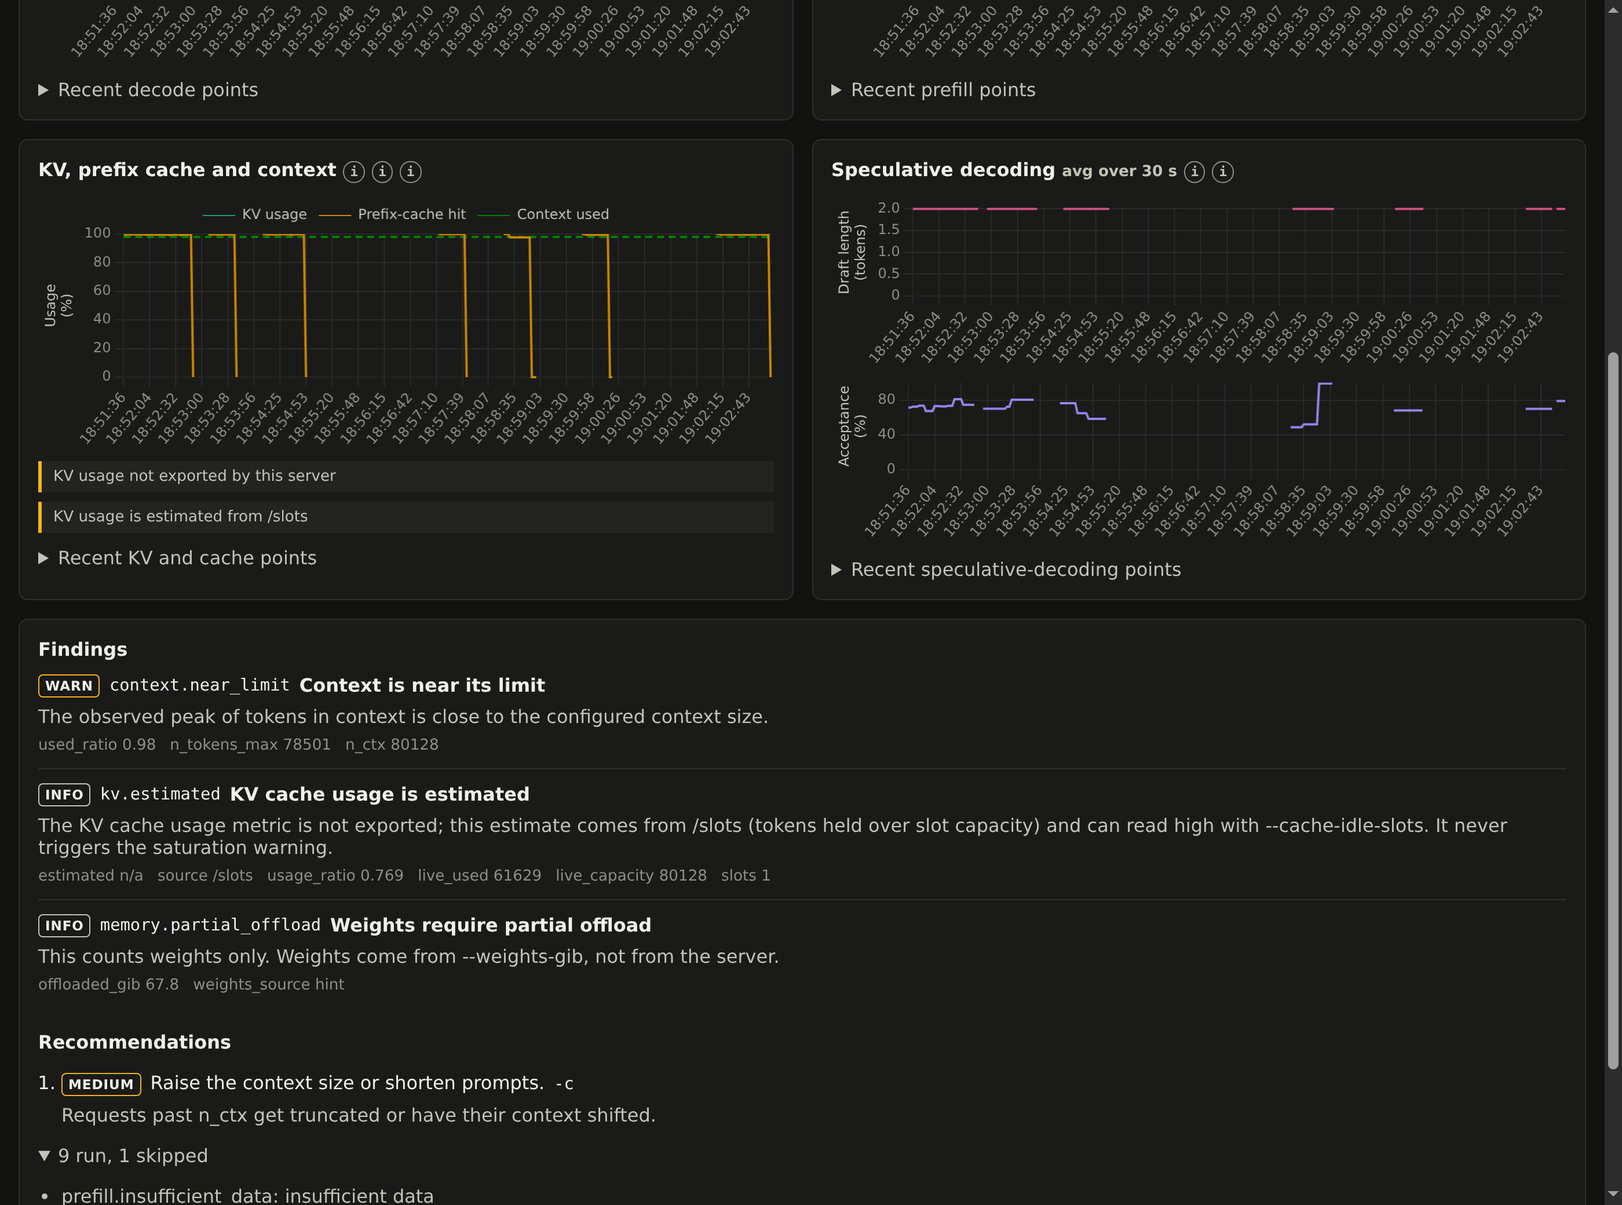
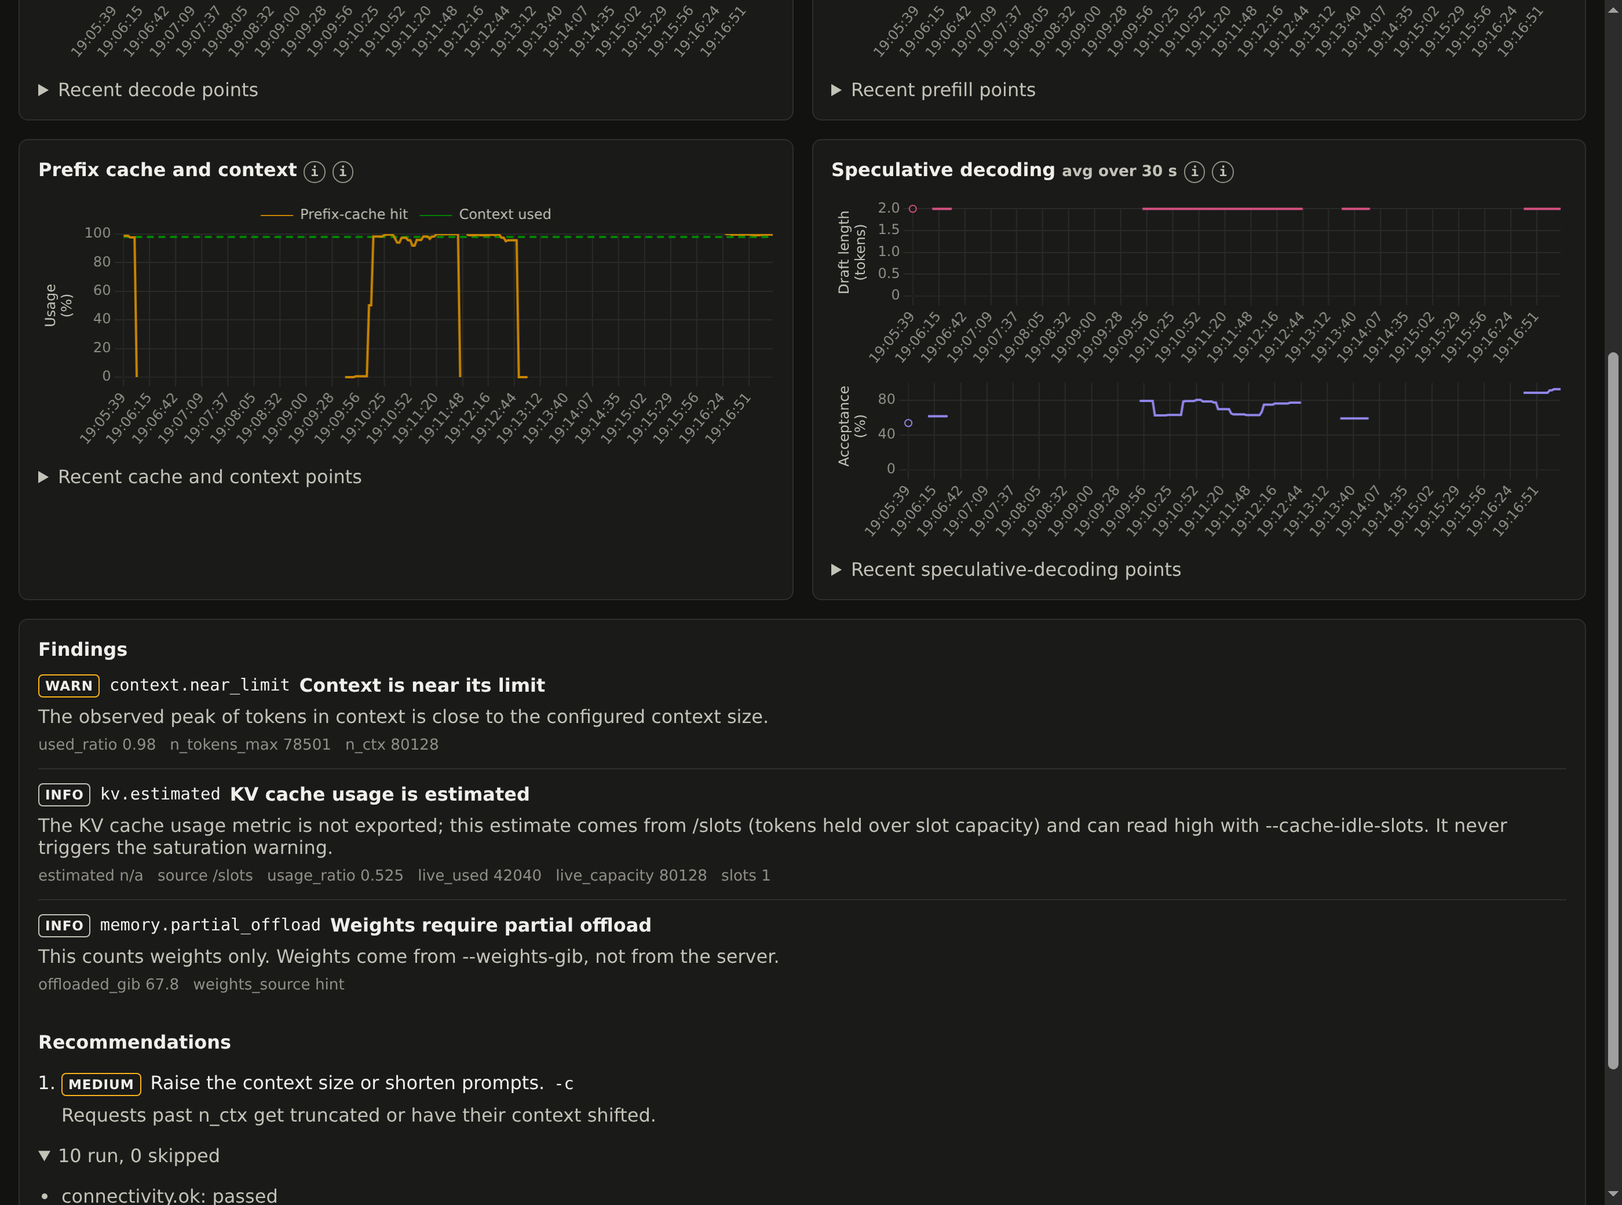
Drop KV usage tile: gauge only existed in legacy llama.cpp builds; keep backend analyzer

diff --git a/src/llama_doctor/dashboard/static/app.js b/src/llama_doctor/dashboard/static/app.js
@@ -6,7 +6,7 @@
   const byId = (id) => document.getElementById(id);
   const colors = {
     grid: color("--grid"), tick: color("--text-3"), legend: color("--text-2"), decode: color("--s-decode"),
-    prefill: color("--s-prefill"), kv: color("--s-kv"), cache: color("--s-cache"),
+    prefill: color("--s-prefill"), cache: color("--s-cache"),
     draft: color("--s-draft"), acceptance: color("--s-accept"), context: color("--s-ctx")
   };
   let lastState = null;
@@ -128,9 +128,8 @@
     decode: lineChart("chart-decode", "Decode (tokens/s)", [{ label: "Decode", data: [], borderColor: colors.decode, unit: "tok/s" }], false),
     prefill: lineChart("chart-prefill", "Prefill (tokens/s)", [{ label: "Prefill", data: [], borderColor: colors.prefill, unit: "tok/s" }], false),
     kvCache: lineChart("chart-kv-cache", "Usage (%)", [
-      { label: "KV usage", data: [], borderColor: colors.kv, backgroundColor: colors.kv, unit: "%" },
       { label: "Prefix-cache hit", data: [], borderColor: colors.cache, backgroundColor: colors.cache, unit: "%" },
-      // Dashed: a peak since server start, not a live gauge like the other two lines.
+      // Dashed: a peak since server start, not a live gauge like the other line.
       { label: "Context used", data: [], borderColor: colors.context, backgroundColor: colors.context, borderDash: [6, 4], unit: "%" }
     ], true),
     draft: lineChart("chart-draft-len", "Draft length (tokens)", [{ label: "Draft length", data: [], borderColor: colors.draft, unit: "tokens" }], false),
@@ -157,7 +156,7 @@
   function updateCharts(history) {
     updateChart(charts.decode, history, ["decode_tps"]);
     updateChart(charts.prefill, history, ["prefill_tps"]);
-    updateChart(charts.kvCache, history, ["kv_usage_ratio", "cache_hit_ratio", "context_used_ratio"]);
+    updateChart(charts.kvCache, history, ["cache_hit_ratio", "context_used_ratio"]);
     updateChart(charts.draft, history, ["avg_draft_len"]);
     updateChart(charts.acceptance, history, ["draft_acceptance"]);
   }
@@ -182,7 +181,6 @@
     "tile-decode": "Decode tok/s",
     "tile-prefill": "Prefill tok/s",
     "tile-cache": "Prefix-cache hit",
-    "tile-kv": "KV usage",
     "tile-context": "Context",
     "tile-queue": "Queue"
   };
@@ -204,20 +202,6 @@
     const hero = live === null ? lifetime : live;
     append(body, "div", formatter(hero), "hero");
     append(body, "div", live === null ? "lifetime avg" : `lifetime ${formatter(lifetime)}`, "secondary");
-  }
-
-  // KV usage is an instantaneous gauge with no lifetime average, so it gets no lifetime line.
-  function renderKvTile(history, unexported, kv) {
-    const body = tileValue("tile-kv");
-    if (unexported) {
-      append(body, "div", "not exported", "hero");
-      if (kv && kv.estimated === true && number(kv.usage_ratio) !== null) {
-        append(body, "div", `~${percent(number(kv.usage_ratio))} estimated - see Context`, "secondary");
-      }
-      return;
-    }
-    append(body, "div", percent(latest(history, "kv_usage_ratio")), "hero");
-    append(body, "div", "current", "secondary");
   }
 
   function renderQueueTile(history) {
@@ -247,7 +231,6 @@
     renderTile("tile-decode", latest(history, "decode_tps"), number(lifetime.decode_tps), rate);
     renderTile("tile-prefill", latest(history, "prefill_tps"), number(lifetime.prefill_tps), rate);
     renderTile("tile-cache", latest(history, "cache_hit_ratio"), number(lifetime.cache_hit_ratio), percent);
-    renderKvTile(history, notes.kv_unexported === true, state.kv && typeof state.kv === "object" ? state.kv : null);
     renderContextTile(state);
     renderQueueTile(history);
   }
@@ -258,12 +241,11 @@
     "tile-decode": ["decode_tps"],
     "tile-prefill": ["prefill_tps"],
     "tile-cache": ["prefix_cache_hit"],
-    "tile-kv": ["kv_usage"],
     "tile-context": ["context_used"],
     "tile-queue": ["queue_processing", "queue_deferred"],
     "chart-decode": ["decode_tps"],
     "chart-prefill": ["prefill_tps"],
-    "chart-kv-cache": ["kv_usage", "prefix_cache_hit", "context_used"],
+    "chart-kv-cache": ["prefix_cache_hit", "context_used"],
     "chart-draft-len": ["draft_length"],
     "chart-acceptance": ["acceptance"],
     "hdr-quant": ["quant"],
@@ -376,22 +358,12 @@
   const NOTE_IDS = {
     decode_idle: "note-decode",
     prefill_idle: "note-prefill",
-    kv_unexported: "note-kv",
     cache_hit_unexported: "note-cache-hit",
     slots_unavailable: "note-slots",
   };
 
-  const SLOTS_NOTE_FALLBACK = "Live slot data unavailable; context use is estimated from metrics";
-  const SLOTS_NOTE_ESTIMATED = "KV usage is estimated from /slots";
-
-  // With live slots the estimate comes from /slots; without them the old wording applies.
-  function updateSlotsNote(state, notes) {
-    const note = byId("note-slots");
-    const kv = state.kv && typeof state.kv === "object" ? state.kv : null;
-    const fromSlots = notes.slots_unavailable !== true && notes.kv_unexported === true
-      && kv !== null && kv.estimated === true;
-    note.textContent = fromSlots ? SLOTS_NOTE_ESTIMATED : SLOTS_NOTE_FALLBACK;
-    note.classList.toggle("hidden", !(fromSlots || notes.slots_unavailable === true));
+  function updateSlotsNote(notes) {
+    byId("note-slots").classList.toggle("hidden", notes.slots_unavailable !== true);
   }
 
   function updateNotes(state) {
@@ -399,7 +371,7 @@
     Object.entries(NOTE_IDS).forEach(([flag, id]) => {
       byId(id).classList.toggle("hidden", notes[flag] !== true);
     });
-    updateSlotsNote(state, notes);
+    updateSlotsNote(notes);
   }
 
   function updateRateWindow(state) {
@@ -459,7 +431,6 @@
     decode: [{ label: "tok/s", key: "decode_tps", format: rate }],
     prefill: [{ label: "tok/s", key: "prefill_tps", format: rate }],
     "kv-cache": [
-      { label: "KV usage", key: "kv_usage_ratio", format: percent },
       { label: "Prefix-cache hit", key: "cache_hit_ratio", format: percent },
       { label: "Context used", key: "context_used_ratio", format: percent }
     ],

diff --git a/src/llama_doctor/dashboard/static/index.html b/src/llama_doctor/dashboard/static/index.html
@@ -28,7 +28,6 @@
       <article id="tile-decode" class="tile"></article>
       <article id="tile-prefill" class="tile"></article>
       <article id="tile-cache" class="tile"></article>
-      <article id="tile-kv" class="tile"></article>
       <article id="tile-context" class="tile"></article>
       <article id="tile-queue" class="tile"></article>
     </section>
@@ -46,12 +45,11 @@
         <details><summary>Recent prefill points</summary><div class="table-wrap" data-table="prefill"></div></details>
       </article>
       <article class="panel">
-        <h2>KV, prefix cache and context</h2>
-        <div class="chart-wrap"><canvas id="chart-kv-cache" aria-label="KV usage, prefix cache hit and peak context used percentages" role="img"></canvas></div>
-        <p id="note-kv" class="chart-note hidden" role="note">KV usage not exported by this server</p>
+        <h2>Prefix cache and context</h2>
+        <div class="chart-wrap"><canvas id="chart-kv-cache" aria-label="Prefix cache hit and peak context used percentages" role="img"></canvas></div>
         <p id="note-cache-hit" class="chart-note hidden" role="note">Prefix cache hits not exported by this server</p>
         <p id="note-slots" class="chart-note hidden" role="note">Live slot data unavailable; context use is estimated from metrics</p>
-        <details><summary>Recent KV and cache points</summary><div class="table-wrap" data-table="kv-cache"></div></details>
+        <details><summary>Recent cache and context points</summary><div class="table-wrap" data-table="kv-cache"></div></details>
       </article>
       <article class="panel speculative">
         <h2>Speculative decoding <span class="secondary rate-window"></span></h2>

diff --git a/src/llama_doctor/dashboard/static/app.css b/src/llama_doctor/dashboard/static/app.css
@@ -9,7 +9,6 @@
   --text-3: #8f8e86;
   --s-decode: #3987e5;
   --s-prefill: #d95926;
-  --s-kv: #199e70;
   --s-cache: #c98500;
   --s-draft: #d55181;
   --s-accept: #9085e9;
@@ -61,7 +60,7 @@ dd { margin: 2px 0 0; overflow-wrap: anywhere; }
 .connection { margin: 0 0 16px; padding: 12px 16px; color: var(--text-2); }
 .hidden { display: none; }
 
-.tiles { grid-template-columns: repeat(6, minmax(0, 1fr)); align-items: stretch; margin-bottom: 16px; }
+.tiles { grid-template-columns: repeat(5, minmax(0, 1fr)); align-items: stretch; margin-bottom: 16px; }
 .tile { padding: 16px; min-height: 102px; }
 .tile-label, .secondary { color: var(--text-2); }
 .tile-label { font-size: 0.85rem; }

diff --git a/tests/test_static.py b/tests/test_static.py
@@ -58,7 +58,6 @@ class TestStaticFiles(unittest.TestCase):
             "tile-decode",
             "tile-prefill",
             "tile-cache",
-            "tile-kv",
             "tile-context",
             "tile-queue",
             "chart-decode",
@@ -71,7 +70,6 @@ class TestStaticFiles(unittest.TestCase):
             "skipped-list",
             "note-decode",
             "note-prefill",
-            "note-kv",
             "note-cache-hit",
             "note-slots",
         )
@@ -116,50 +114,35 @@ class TestStaticFiles(unittest.TestCase):
         self.assertIn("Math.abs(value) >= 1 ? 1 : 3", self.app_js)
         self.assertIn("`${key} ${displayNumber(value)}`", self.app_js)
 
-    def test_kv_tile_says_not_exported_without_lifetime_line(self):
-        self.assertIn('"not exported"', self.app_js)
-        self.assertIn("notes.kv_unexported === true", self.app_js)
-
-    def test_kv_tile_estimate_is_secondary_and_refers_to_context(self):
-        self.assertIn("estimated - see Context", self.app_js)
-        start = self.app_js.index("function renderKvTile")
-        body = self.app_js[start:self.app_js.index("function renderQueueTile")]
-        self.assertLess(body.index('"not exported", "hero"'), body.index("estimated - see Context"))
-        self.assertNotIn("`~${percent(number(kv.usage_ratio))}`", body)
-
-    def test_kv_tile_is_a_gauge_without_lifetime_average(self):
-        self.assertIn('percent(latest(history, "kv_usage_ratio"))', self.app_js)
-        self.assertNotIn("lifetime.kv_usage_ratio", self.app_js)
+    def test_kv_tile_is_gone(self):
+        self.assertNotIn("tile-kv", self.index + self.app_js)
+        self.assertNotIn("renderKvTile", self.app_js)
+        self.assertNotIn("note-kv", self.index + self.app_js)
 
     def test_metric_notes_start_hidden_and_are_styled(self):
-        for note in ("note-decode", "note-prefill", "note-kv", "note-cache-hit", "note-slots"):
+        for note in ("note-decode", "note-prefill", "note-cache-hit", "note-slots"):
             with self.subTest(note=note):
                 self.assertRegex(self.index, rf'id="{note}" class="chart-note hidden"')
                 self.assertIn(f'"{note}"', self.app_js)
         self.assertIn(".chart-note", self.app_css)
 
     def test_metric_notes_follow_sampler_flags(self):
-        for flag in ("decode_idle", "prefill_idle", "kv_unexported", "cache_hit_unexported", "slots_unavailable"):
+        for flag in ("decode_idle", "prefill_idle", "cache_hit_unexported", "slots_unavailable"):
             with self.subTest(flag=flag):
                 self.assertIn(flag, self.app_js)
 
-    def test_kv_and_cache_notes_explain_unexported_metrics(self):
-        self.assertIn(">KV usage not exported by this server<", self.index)
+    def test_cache_note_explains_unexported_metric(self):
         self.assertIn(">Prefix cache hits not exported by this server<", self.index)
 
-    def test_kv_and_cache_notes_sit_under_kv_chart(self):
+    def test_cache_notes_sit_under_cache_chart(self):
         canvas = self.index.index('id="chart-kv-cache"')
-        self.assertLess(canvas, self.index.index('id="note-kv"'))
-        self.assertLess(self.index.index('id="note-kv"'), self.index.index('id="note-cache-hit"'))
+        self.assertLess(canvas, self.index.index('id="note-cache-hit"'))
         self.assertLess(self.index.index('id="note-cache-hit"'), self.index.index('id="note-slots"'))
         self.assertLess(self.index.index('id="note-slots"'), self.index.index('data-table="kv-cache"'))
 
-    def test_slots_note_text_depends_on_slot_availability(self):
-        self.assertIn("Live slot data unavailable; context use is estimated from metrics", self.app_js)
-        self.assertIn("KV usage is estimated from /slots", self.app_js)
+    def test_slots_note_follows_slot_availability(self):
         self.assertIn("notes.slots_unavailable !== true", self.app_js)
-        self.assertIn("kv.estimated === true", self.app_js)
-        self.assertIn("updateSlotsNote(state, notes)", self.app_js)
+        self.assertIn("updateSlotsNote(notes)", self.app_js)
 
     def test_css_severity_classes(self):
         for severity in ("critical", "warn", "info", "ok", "insufficient_data"):
@@ -177,7 +160,6 @@ class TestStaticFiles(unittest.TestCase):
             "--text-3",
             "--s-decode",
             "--s-prefill",
-            "--s-kv",
             "--s-cache",
             "--s-draft",
             "--s-accept",
@@ -189,15 +171,15 @@ class TestStaticFiles(unittest.TestCase):
         for token in tokens:
             self.assertRegex(self.app_css, rf"{re.escape(token)}\s*:")
 
-    def test_six_tiles_share_one_row_with_equal_height_and_flexible_width(self):
-        self.assertEqual(self.index.count('class="tile"'), 6)
-        self.assertIn(".tiles { grid-template-columns: repeat(6, minmax(0, 1fr)); align-items: stretch;",
+    def test_five_tiles_share_one_row_with_equal_height_and_flexible_width(self):
+        self.assertEqual(self.index.count('class="tile"'), 5)
+        self.assertIn(".tiles { grid-template-columns: repeat(5, minmax(0, 1fr)); align-items: stretch;",
                       self.app_css)
         self.assertIn(".tile { padding: 16px; min-height: 102px; }", self.app_css)
 
-    def test_context_tile_sits_between_kv_and_queue(self):
-        kv, context, queue = (self.index.index(f'id="tile-{name}"') for name in ("kv", "context", "queue"))
-        self.assertLess(kv, context)
+    def test_context_tile_sits_between_cache_and_queue(self):
+        cache, context, queue = (self.index.index(f'id="tile-{name}"') for name in ("cache", "context", "queue"))
+        self.assertLess(cache, context)
         self.assertLess(context, queue)
         self.assertIn('"tile-context": "Context"', self.app_js)
 
@@ -210,9 +192,9 @@ class TestStaticFiles(unittest.TestCase):
         self.assertIn('`peak ${percent(number(context.used_ratio))}`, "secondary"', self.app_js)
         self.assertNotIn("live ${percent", self.app_js)
 
-    def test_kv_chart_has_context_used_series(self):
+    def test_cache_chart_has_context_used_series(self):
         self.assertIn('label: "Context used"', self.app_js)
-        self.assertIn('["kv_usage_ratio", "cache_hit_ratio", "context_used_ratio"]', self.app_js)
+        self.assertIn('["cache_hit_ratio", "context_used_ratio"]', self.app_js)
         self.assertIn('{ label: "Context used", key: "context_used_ratio", format: percent }', self.app_js)
         self.assertRegex(self.app_css, r"--s-ctx\s*:")
 
@@ -228,8 +210,8 @@ class TestStaticFiles(unittest.TestCase):
         self.assertIn("<summary>0 run, 0 skipped</summary>", self.index)
         self.assertNotIn("checks skipped", self.app_js + self.index)
 
-    def test_queue_tile_follows_kv_tile(self):
-        self.assertLess(self.index.index('id="tile-kv"'), self.index.index('id="tile-queue"'))
+    def test_queue_tile_follows_context_tile(self):
+        self.assertLess(self.index.index('id="tile-context"'), self.index.index('id="tile-queue"'))
         self.assertIn('"Queue"', self.app_js)
         self.assertIn('"requests_processing"', self.app_js)
         self.assertIn('"requests_deferred"', self.app_js)

diff --git a/src/llama_doctor/catalog.py b/src/llama_doctor/catalog.py
@@ -35,22 +35,6 @@ METRICS: dict[str, dict[str, str]] = {
             "prompt and tools byte-identical and put variable text last."
         ),
     },
-    "kv_usage": {
-        "label": "KV usage",
-        "description": "Fraction of KV cache cells currently holding context tokens.",
-        "interpretation": (
-            "It is a share of the cache's own capacity and moves with each request: at "
-            "90 % or more the cache is saturated, which risks truncation or deferred "
-            "requests. Whether the context is oversized is judged from the Context used "
-            "peak, not from this gauge. When the gauge is missing, the tile reads not "
-            "exported and a small line shows an estimate (live tokens over slot capacity) "
-            "from /slots, the same figure as the Context tile; it can read high if "
-            "the server runs with --cache-idle-slots, which keeps idle slots filled, and "
-            "it never raises the saturation warning. No current llama-server build exports this "
-            "metric, so the tile and chart normally read not exported; only older "
-            "builds still fill them."
-        ),
-    },
     "draft_length": {
         "label": "Draft length",
         "description": (

diff --git a/tests/test_catalog.py b/tests/test_catalog.py
@@ -8,7 +8,6 @@ REQUIRED_IDS = {
     "decode_tps",
     "prefill_tps",
     "prefix_cache_hit",
-    "kv_usage",
     "draft_length",
     "acceptance",
     "queue_processing",
@@ -69,13 +68,6 @@ class TestCatalog(unittest.TestCase):
     def test_live_vs_peak_and_idle_slots_explained(self):
         self.assertIn("live", METRICS["context_used"]["description"])
         self.assertIn("peak", METRICS["context_used"]["description"])
-        self.assertIn("--cache-idle-slots", METRICS["kv_usage"]["interpretation"])
-
-    def test_kv_usage_says_no_current_server_exports_it(self):
-        text = METRICS["kv_usage"]["interpretation"]
-        self.assertIn("No current llama-server build exports", text)
-        self.assertNotIn("Unsloth", text)
-        self.assertNotIn("Some servers", text)
 
     def test_draft_length_explains_when_inactive_drafts_warn(self):
         text = METRICS["draft_length"]["interpretation"]

diff --git a/tests/test_readme.py b/tests/test_readme.py
@@ -51,7 +51,7 @@ class TestReadme(unittest.TestCase):
         app_js = (default_static_dir() / "app.js").read_text(encoding="utf-8")
         block = re.search(r"const TILE_LABELS = \{(.*?)\n  \};", app_js, re.DOTALL).group(1)
         labels = re.findall(r'"tile-[a-z]+": "([^"]+)"', block)
-        self.assertEqual(len(labels), 6)
+        self.assertEqual(len(labels), 5)
         self.assertIn(", ".join(labels), self.readme)
 
     def test_install_is_editable_and_pythonpath_runs_from_repo_root(self):

diff --git a/README.md b/README.md
@@ -88,17 +88,17 @@ llama-doctor serve http://127.0.0.1:8080
 
 `serve` runs a local HTTP server on port 8765; open `http://127.0.0.1:8765` in a browser. It polls the llama.cpp server every 2 s and keeps the last 300 points in memory. Chart rates are computed over a sliding 30 s window (`--rate-window`), because llama.cpp counters only move when a request completes.
 
-Tiles, left to right: Decode tok/s, Prefill tok/s, Prefix-cache hit, KV usage, Context, Queue.
+Tiles, left to right: Decode tok/s, Prefill tok/s, Prefix-cache hit, Context, Queue.
 
 - Decode, Prefill and Prefix-cache hit show the latest windowed value, with the lifetime average below it (or only the lifetime average while the server is idle).
-- KV usage is the current share of KV cache cells in use (`kv_cache_usage_ratio`), or `not exported` on servers that omit it. When it is omitted but `/slots` is readable, the tile shows an estimate (`~X %`, live tokens over slot capacity, `kv.estimated`); it can read high if the server runs with `--cache-idle-slots`. `kv.saturated` warns at 90 % or more and only from the real gauge.
+- Current llama-server builds and Unsloth Studio do not export a KV usage gauge, so the dashboard has no KV tile. Older builds that still export `kv_cache_usage_ratio` keep the KV findings (`kv.saturated` warns at 90 % or more of the real gauge; `kv.estimated` appears when only `/slots` is readable).
 - Context shows the peak tokens held in context as a share of `n_ctx` (`n_tokens_max / n_ctx`, for example `98.0 %` and `78.5k / 80.1k`). The peak is the highest point since the server started, not live use; when `/slots` is readable the tile reads `live X % - peak Y %`, where live is the tokens held by the slots right now (prompt plus decoded) over their summed `n_ctx`. `context.near_limit` warns at 90 % or more.
 - Queue shows requests being processed and, below it, requests deferred while waiting for a free slot (`requests_processing`, `requests_deferred`).
 
 Charts:
 
 - Decode throughput and Prefill throughput, in tokens per second, averaged over the rate window.
-- KV, prefix cache and context, in percent: KV usage, Prefix-cache hit, and Context used as a dashed line (a peak, not a live gauge).
+- Prefix cache and context, in percent: Prefix-cache hit, and Context used as a dashed line (a peak, not a live gauge).
 - Speculative decoding: Draft length in tokens and Draft acceptance in percent, averaged over the rate window.
 
 Every tile, chart and the quant, context and slots fields in the header have a help tooltip that says what the value measures and how to read it, independent of model or hardware.
@@ -121,7 +121,7 @@ The findings and recommendations panels re-run every analyzer on each poll, so a
 | `--api-key-env VAR` | Read the server's API key from environment variable `VAR`. |
 | `--timeout SEC` | HTTP timeout per request. |
 | `--no-color` | Disable ANSI colour in text output. |
-| `--no-slots` | Do not read `GET /slots` (live context and the KV estimate). Without this flag it is read with the same auth as `/metrics`; any failure just leaves those values out. Only token counts are used; prompt text and ids are never kept. |
+| `--no-slots` | Do not read `GET /slots` (live context and the KV estimate in findings). Without this flag it is read with the same auth as `/metrics`; any failure just leaves those values out. Only token counts are used; prompt text and ids are never kept. |
 
 `--probe` is off by default. It is the only option that sends a write request to the server; everything else is a read-only GET.
 
